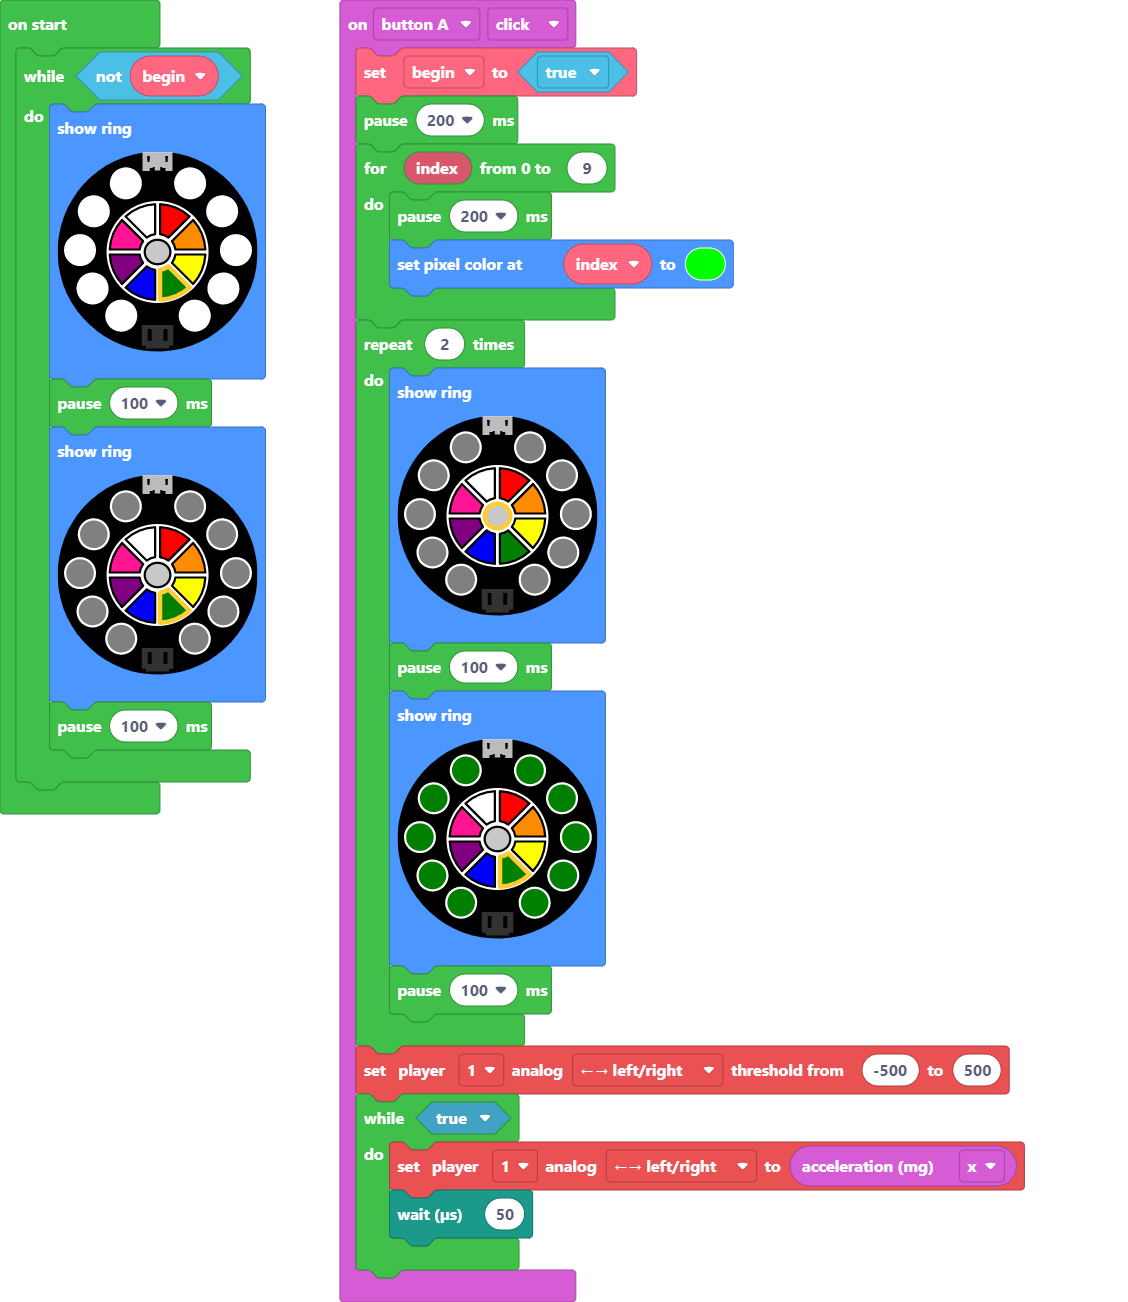
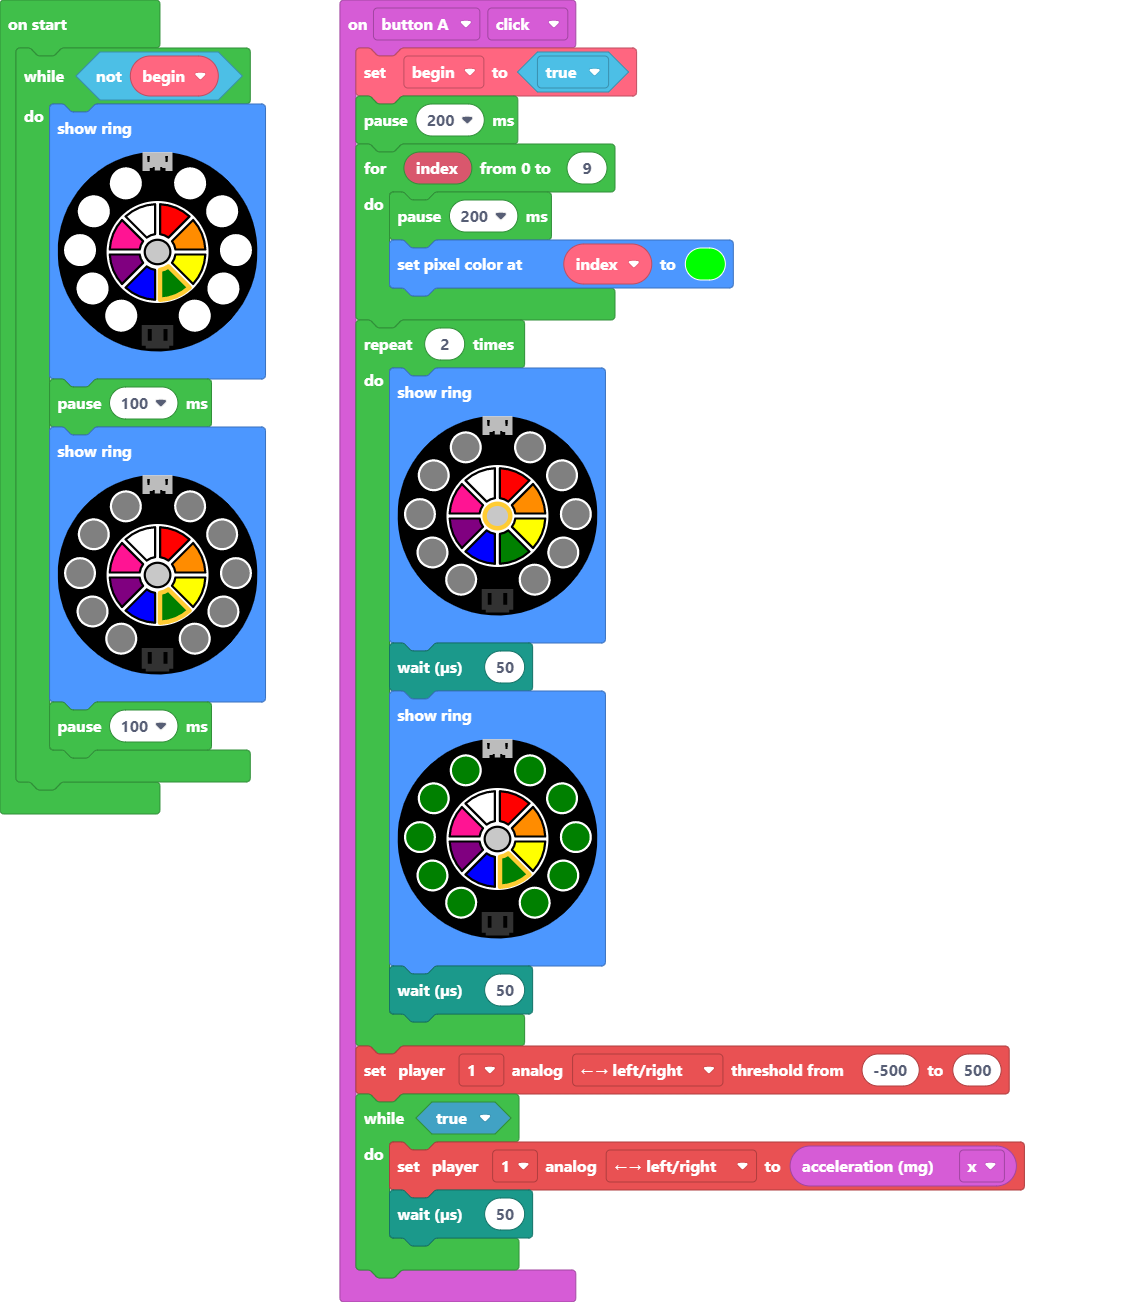
Update main.blocks, main.ts

Changed region(s): [[0.3413, 0.7373, 0.4965, 0.7988], [0.3413, 0.4916, 0.4965, 0.553]]

diff --git a/main.ts b/main.ts
@@ -9,11 +9,11 @@ input.buttonA.onEvent(ButtonEvent.Click, function () {
         light.showRing(
         `black black black black black black black black black black`
         )
-        pause(100)
+        control.waitMicros(50)
         light.showRing(
         `green green green green green green green green green green`
         )
-        pause(100)
+        control.waitMicros(50)
     }
     makerController.player1.setAnalogThreshold(ArcadeAnalogButton.LeftRight, -500, 500)
     while (true) {
